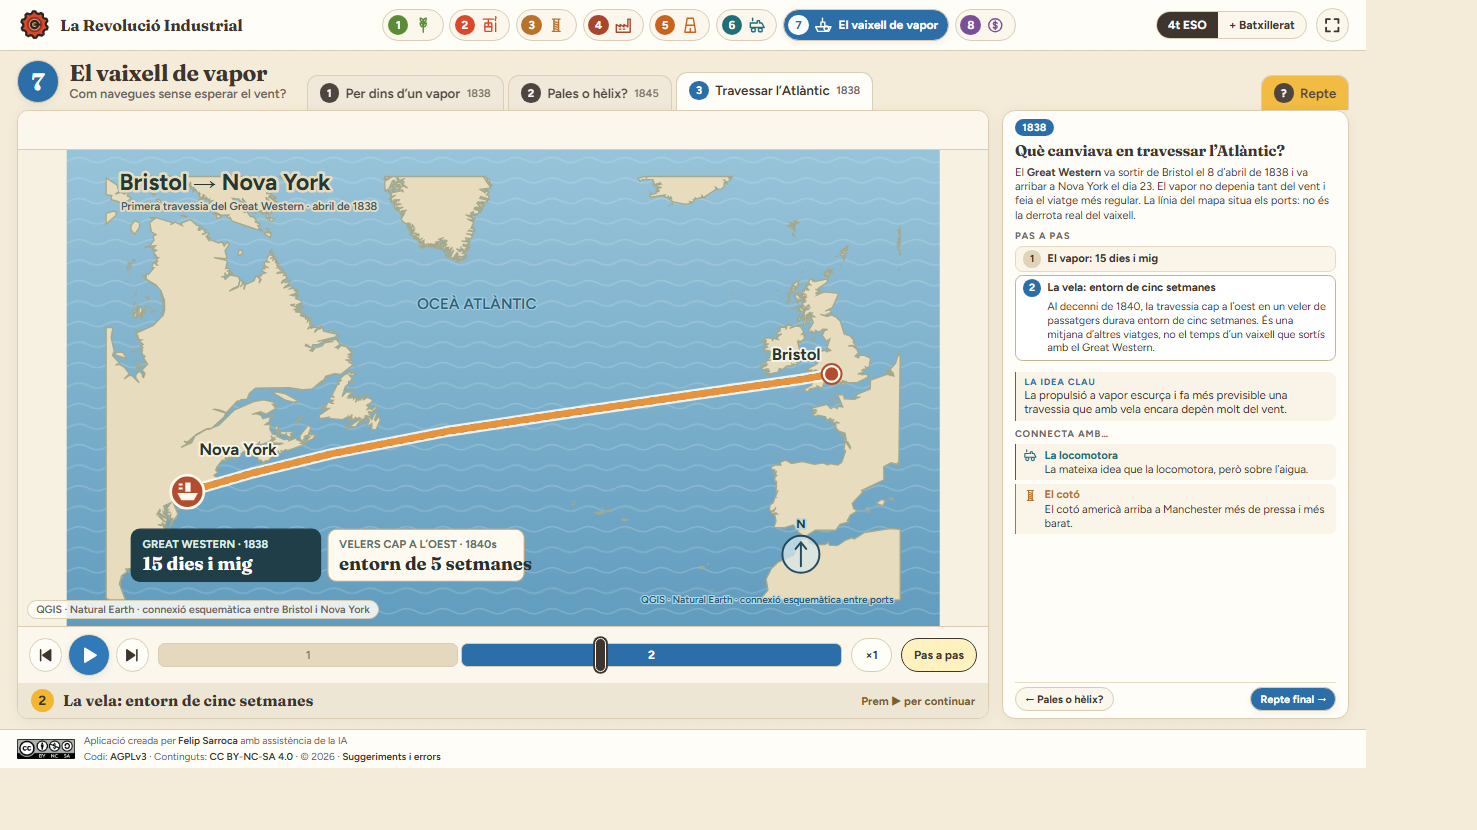
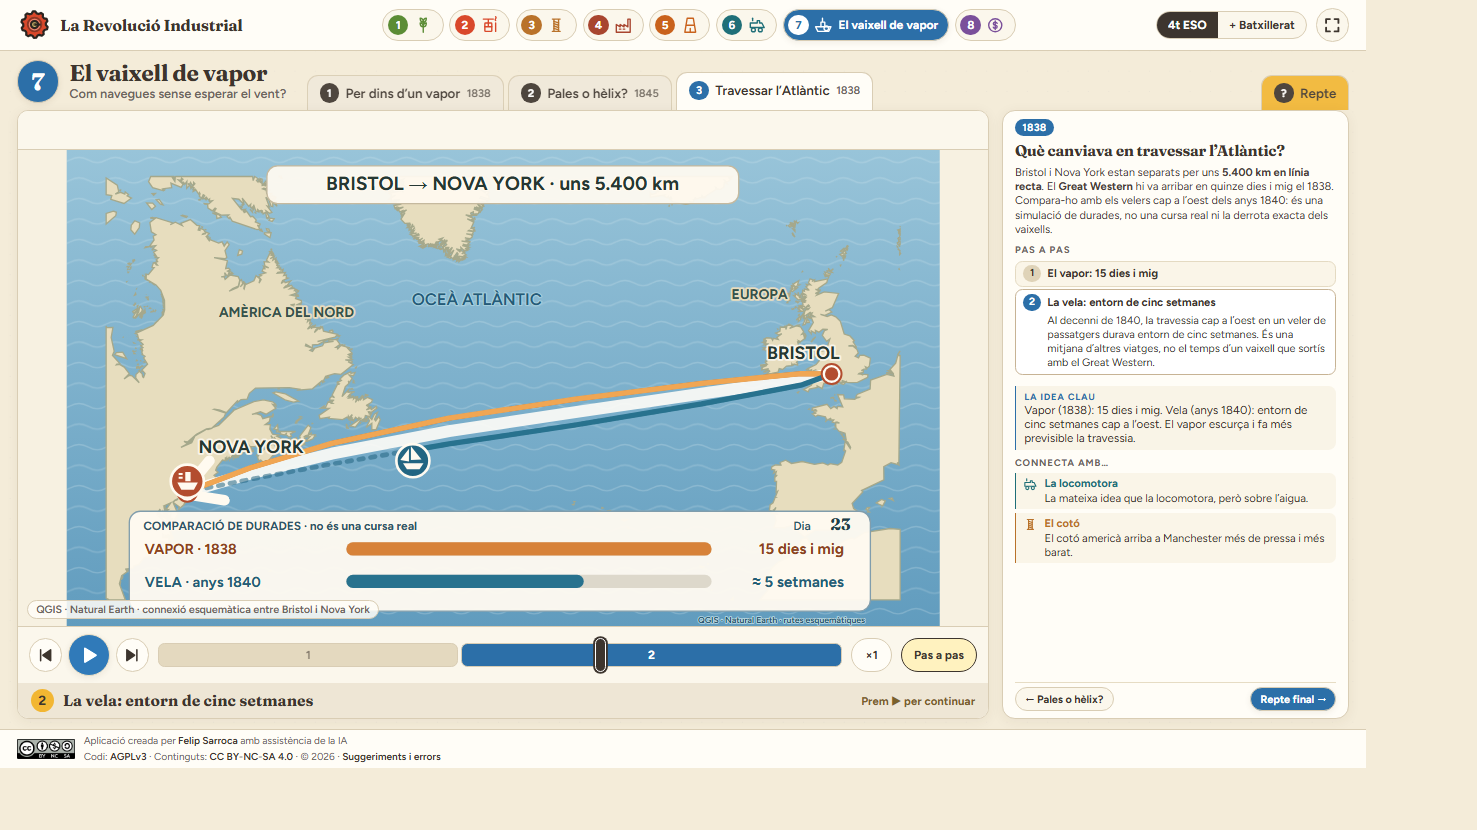
Aclareix el mapa atlàntic i mostra la comparació de durades

diff --git a/RevolucioIndustrial/js/mapes.js b/RevolucioIndustrial/js/mapes.js
@@ -53,38 +53,63 @@
 
   RI.mapaAtlantic = function () {
     const m = geo.sea, p = m.places, d = line(m.route);
+    const steam = line(m.route.map(([x, y], i) => [x, y - 20 * Math.sin(Math.PI * i / (m.route.length - 1))]));
+    const sail = line(m.route.map(([x, y], i) => [x, y + 20 * Math.sin(Math.PI * i / (m.route.length - 1))]));
     const s = `
       <title>Ruta del Great Western, de Bristol a Nova York, abril de 1838</title>
       <desc>Mapa de l'Atlàntic amb els ports de Bristol i Nova York. La línia és una connexió esquemàtica i no la derrota real del vaixell.</desc>
-      <defs><linearGradient id="mapa-ocea" x2="0" y2="1"><stop stop-color="#98c4d9"/><stop offset="1" stop-color="#619cbe"/></linearGradient><pattern id="mapa-ones" width="55" height="31" patternUnits="userSpaceOnUse"><path d="M0 15q14-8 28 0t27 0" fill="none" stroke="#eef8f8" stroke-opacity=".21" stroke-width="2"/></pattern></defs>
+      <defs><linearGradient id="mapa-ocea" x2="0" y2="1"><stop stop-color="#98c4d9"/><stop offset="1" stop-color="#619cbe"/></linearGradient><pattern id="mapa-ones" width="55" height="31" patternUnits="userSpaceOnUse"><path d="M0 15q14-8 28 0t27 0" fill="none" stroke="#eef8f8" stroke-opacity=".21" stroke-width="2"/></pattern><marker id="mapa-fletxa-oest" markerWidth="10" markerHeight="10" refX="7" refY="5" orient="auto"><path d="M1 1L8 5 1 9" fill="none" stroke="#fffaf0" stroke-width="2" stroke-linecap="round" stroke-linejoin="round"/></marker></defs>
       <rect x="-60" y="0" width="1320" height="720" fill="url(#mapa-ocea)"/>
       <rect x="-60" y="0" width="1320" height="720" fill="url(#mapa-ones)"/>
       <g transform="translate(0 40)"><path d="${m.land}" fill="#e7ddbe" fill-rule="evenodd" stroke="#a5a88b" stroke-width="2"/></g>
-      ${label(20, 61, 'Bristol → Nova York', { size: 35, halo: '#e7ddbe', outline: 7 })}
-      ${label(22, 91, 'Primera travessia del Great Western · abril de 1838', { size: 17, weight: 600, fill: '#365c72', halo: '#e7ddbe' })}
-      ${label(560, 240, 'OCEÀ ATLÀNTIC', { anchor: 'middle', size: 23, weight: 600, fill: '#2b6482', halo: '#a4cddd', outline: 3 })}
-      <path d="${d}" transform="translate(0 40)" fill="none" stroke="#fffdf7" stroke-width="17" stroke-linecap="round" stroke-linejoin="round" opacity=".86"/>
-      <path d="${d}" transform="translate(0 40)" fill="none" stroke="#356d8b" stroke-width="10" stroke-dasharray="5 11" stroke-linecap="round" stroke-linejoin="round"/>
-      <path id="mar-ruta" d="${d}" transform="translate(0 40)" fill="none" stroke="#e7933c" stroke-width="10" stroke-linecap="round" stroke-linejoin="round"/>
+      <rect x="243" y="24" width="713" height="57" rx="16" fill="#fffaf0" fill-opacity=".94" stroke="#c5b99e" stroke-width="2"/>
+      ${label(599, 61, 'BRISTOL → NOVA YORK · uns 5.400 km', { anchor: 'middle', size: 29, halo: '#fffaf0', outline: 3 })}
+      ${label(560, 235, 'OCEÀ ATLÀNTIC', { anchor: 'middle', size: 25, weight: 600, fill: '#245b79', halo: '#a4cddd', outline: 3 })}
+      ${label(170, 252, 'AMÈRICA DEL NORD', { size: 21, weight: 700, fill: '#36534c', halo: '#e7ddbe' })}
+      ${label(1030, 225, 'EUROPA', { anchor: 'end', size: 21, weight: 700, fill: '#36534c', halo: '#e7ddbe' })}
+      <path d="${d}" transform="translate(0 40)" fill="none" stroke="#fffdf7" stroke-width="18" stroke-linecap="round" stroke-linejoin="round" opacity=".9"/>
+      <path d="${steam}" transform="translate(0 40)" fill="none" stroke="#a34f25" stroke-width="7" stroke-linecap="round" stroke-linejoin="round"/>
+      <path d="${sail}" transform="translate(0 40)" fill="none" stroke="#226582" stroke-width="7" stroke-dasharray="7 11" stroke-linecap="round" stroke-linejoin="round" opacity=".55"/>
+      <path id="mar-ruta" d="${steam}" transform="translate(0 40)" fill="none" stroke="#f0a653" stroke-width="8" stroke-linecap="round" stroke-linejoin="round" marker-end="url(#mapa-fletxa-oest)"/>
+      <path id="mar-vela-ruta" d="${sail}" transform="translate(0 40)" fill="none" stroke="#28728e" stroke-width="8" stroke-linecap="round" stroke-linejoin="round"/>
       ${dot(p.Bristol[0], p.Bristol[1] + 40, '#b34d2f', 10)}
       ${dot(p['Nova York'][0], p['Nova York'][1] + 40, '#b34d2f', 10)}
-      ${label(p.Bristol[0] - 17, p.Bristol[1] + 19, 'Bristol', { anchor: 'end', size: 25 })}
-      ${label(p['Nova York'][0] + 18, p['Nova York'][1] - 16, 'Nova York', { size: 25 })}
-      <g id="mar-vaixell" transform="translate(${p.Bristol[0]} ${p.Bristol[1] + 40})"><circle r="25" fill="#b34d2f" stroke="#fffaf0" stroke-width="4"/><path d="M-15 2H16l-6 11H-9Z" fill="#fffaf0"/><path d="M-3 0v-14h8V0" fill="#fffaf0"/><path d="M-13-5h6M-13-11h6" stroke="#fffaf0" stroke-width="3"/></g>
-      ${badge(38, 573, 286, 'GREAT WESTERN · 1838', '15 dies i mig', true)}
-      ${badge(335, 573, 297, 'VELERS CAP A L’OEST · 1840s', 'entorn de 5 setmanes')}
-      <g transform="translate(1050 611)" fill="none" stroke="#234c63" stroke-width="3"><circle r="28" fill="#d7e6e7" fill-opacity=".75"/><path d="M0 18V-18m0 0-8 10m8-10 8 10" stroke-linecap="round" stroke-linejoin="round"/></g>
-      ${label(1050, 572, 'N', { anchor: 'middle', size: 18, weight: 700, halo: '#b7d4df' })}
-      ${label(1190, 685, 'QGIS · Natural Earth · connexió esquemàtica entre ports', { anchor: 'end', size: 15, weight: 600, fill: '#24546e', halo: '#bbd8e2', outline: 3 })}`;
+      ${label(p.Bristol[0] + 12, p.Bristol[1] + 17, 'BRISTOL', { anchor: 'end', size: 27 })}
+      ${label(p['Nova York'][0] + 17, p['Nova York'][1] - 19, 'NOVA YORK', { size: 27 })}
+      <g id="mar-vaixell" transform="translate(${p.Bristol[0]} ${p.Bristol[1] + 24})"><circle r="25" fill="#b34d2f" stroke="#fffaf0" stroke-width="4"/><path d="M-15 2H16l-6 11H-9Z" fill="#fffaf0"/><path d="M-3 0v-14h8V0" fill="#fffaf0"/><path d="M-13-5h6M-13-11h6" stroke="#fffaf0" stroke-width="3"/></g>
+      <g id="mar-veler" transform="translate(${p.Bristol[0]} ${p.Bristol[1] + 56})"><circle r="25" fill="#226582" stroke="#fffaf0" stroke-width="4"/><path d="M-15 4H16l-6 9H-9Z" fill="#fffaf0"/><path d="M-3-1v-21l16 20zM-6 1l-13-2L-6-18z" fill="#fffaf0"/></g>
+      <rect x="35" y="546" width="1120" height="151" rx="17" fill="#fffaf0" fill-opacity=".96" stroke="#809dac" stroke-width="2"/>
+      ${label(56, 574, 'COMPARACIÓ DE DURADES · no és una cursa real', { size: 18, weight: 700, fill: '#305669', halo: '#fffaf0', outline: 2 })}
+      ${label(1065, 574, 'Dia', { anchor: 'end', size: 18, weight: 600, fill: '#305669', halo: '#fffaf0', outline: 2 })}
+      <text id="mar-dia" x="1125" y="574" text-anchor="end" fill="#203e48" font-family="Fraunces,Georgia,serif" font-size="25" font-weight="700">0</text>
+      <rect x="363" y="593" width="552" height="20" rx="10" fill="#ddd8cb"/>
+      <rect id="mar-barra-vapor" x="363" y="593" width="0" height="20" rx="10" fill="#d78239"/>
+      <rect x="363" y="642" width="552" height="20" rx="10" fill="#ddd8cb"/>
+      <rect id="mar-barra-vela" x="363" y="642" width="0" height="20" rx="10" fill="#28728e"/>
+      ${label(58, 611, 'VAPOR · 1838', { size: 22, fill: '#8d431f', halo: '#fffaf0', outline: 2 })}
+      ${label(58, 660, 'VELA · anys 1840', { size: 22, fill: '#245e77', halo: '#fffaf0', outline: 2 })}
+      ${label(1115, 611, '15 dies i mig', { anchor: 'end', size: 23, fill: '#8d431f', halo: '#fffaf0', outline: 2 })}
+      ${label(1115, 660, '≈ 5 setmanes', { anchor: 'end', size: 23, fill: '#245e77', halo: '#fffaf0', outline: 2 })}
+      ${label(1147, 715, 'QGIS · Natural Earth · rutes esquemàtiques', { anchor: 'end', size: 13, weight: 600, fill: '#24546e', halo: '#bbd8e2', outline: 2 })}`;
     return RI.svg(s);
   };
 
   RI.animaMapaAtlantic = function ({ p, el, svg }) {
-    const route = el('mar-ruta');
-    const length = svg._mapLength || (svg._mapLength = route.getTotalLength());
-    const fraction = Math.max(0, Math.min(1, (p * 35) / 15.5));
-    route.style.strokeDasharray = `${(length * fraction).toFixed(1)} ${length.toFixed(1)}`;
-    const point = route.getPointAtLength(length * fraction);
-    el('mar-vaixell').setAttribute('transform', `translate(${point.x.toFixed(1)} ${(point.y + 40).toFixed(1)})`);
+    const steam = el('mar-ruta');
+    const sail = el('mar-vela-ruta');
+    const steamLength = svg._steamLength || (svg._steamLength = steam.getTotalLength());
+    const sailLength = svg._sailLength || (svg._sailLength = sail.getTotalLength());
+    const day = Math.max(0, Math.min(35, p * 35));
+    const steamFraction = Math.min(1, day / 15.5);
+    const sailFraction = day / 35;
+    steam.style.strokeDasharray = `${(steamLength * steamFraction).toFixed(1)} ${steamLength.toFixed(1)}`;
+    sail.style.strokeDasharray = `${(sailLength * sailFraction).toFixed(1)} ${sailLength.toFixed(1)}`;
+    const steamPoint = steam.getPointAtLength(steamLength * steamFraction);
+    const sailPoint = sail.getPointAtLength(sailLength * sailFraction);
+    el('mar-vaixell').setAttribute('transform', `translate(${steamPoint.x.toFixed(1)} ${(steamPoint.y + 24).toFixed(1)})`);
+    el('mar-veler').setAttribute('transform', `translate(${sailPoint.x.toFixed(1)} ${(sailPoint.y + 56).toFixed(1)})`);
+    el('mar-barra-vapor').setAttribute('width', (552 * steamFraction).toFixed(1));
+    el('mar-barra-vela').setAttribute('width', (552 * sailFraction).toFixed(1));
+    el('mar-dia').textContent = Math.round(day);
   };
 })();

diff --git a/RevolucioIndustrial/js/vaixell.js b/RevolucioIndustrial/js/vaixell.js
@@ -140,13 +140,13 @@
         id: 'atlantic', nom: 'Travessar l’Atlàntic', any: '1838', durada: 16,
         model: 'QGIS · Natural Earth · connexió esquemàtica entre Bristol i Nova York',
         pregunta: 'Què canviava en travessar l’Atlàntic?',
-        intro: 'El <b>Great Western</b> va sortir de Bristol el 8 d’abril de 1838 i va arribar a Nova York el dia 23. El vapor no depenia tant del vent i feia el viatge més regular. La línia del mapa situa els ports: no és la derrota real del vaixell.',
+        intro: 'Bristol i Nova York estan separats per uns <b>5.400 km en línia recta</b>. El <b>Great Western</b> hi va arribar en quinze dies i mig el 1838. Compara-ho amb els velers cap a l’oest dels anys 1840: és una simulació de durades, no una cursa real ni la derrota exacta dels vaixells.',
         svg: RI.mapaAtlantic, anima: RI.animaMapaAtlantic, llegenda: false,
         fases: [
           { fins: 0.44, nom: 'El vapor: 15 dies i mig', text: 'El primer viatge del Great Western, de Bristol a Nova York, dura aproximadament quinze dies i mig. L’arribada demostra que un gran vapor pot creuar l’oceà.' },
           { fins: 1, nom: 'La vela: entorn de cinc setmanes', text: 'Al decenni de 1840, la travessia cap a l’oest en un veler de passatgers durava entorn de cinc setmanes. És una mitjana d’altres viatges, no el temps d’un vaixell que sortís amb el Great Western.' }
         ],
-        clau: 'La propulsió a vapor escurça i fa més previsible una travessia que amb vela encara depèn molt del vent.',
+        clau: 'Vapor (1838): 15 dies i mig. Vela (anys 1840): entorn de cinc setmanes cap a l’oest. El vapor escurça i fa més previsible la travessia.',
         batx: { titol: 'Un viatge i una mitjana', text: 'Els quinze dies i mig corresponen al primer viatge d’un vaixell concret el 1838; les cinc setmanes resumeixen travessies de velers cap a l’oest durant els anys 1840. Què perdries si presentessis aquestes dades com una cursa entre dos vaixells?', font: 'https://www.rmg.co.uk/stories/ocean/sailing-ships-steam-power-how-industrial-revolution-changed-life-sea-forever', fontNom: 'Royal Museums Greenwich · Del veler al vapor' }
       }
     ],

diff --git a/RevolucioIndustrial/vaixell.html b/RevolucioIndustrial/vaixell.html
@@ -19,7 +19,7 @@
   <script src="js/materials.js?v=20261114-realisme1"></script>
   <script src="js/reals.js?v=20261114-explotades2"></script>
   <script src="assets/gis/mapes-geometria.js?v=20261114-qgis1"></script>
-  <script src="js/mapes.js?v=20261114-qgis1"></script>
-  <script src="js/vaixell.js?v=20261114-realisme1"></script>
+  <script src="js/mapes.js?v=20261114-qgis2"></script>
+  <script src="js/vaixell.js?v=20261114-qgis2"></script>
 </body>
 </html>

diff --git a/RevolucioIndustrial/assets/gis/verifica_mapes.py b/RevolucioIndustrial/assets/gis/verifica_mapes.py
@@ -15,7 +15,8 @@ with sync_playwright() as pw:
             page = browser.new_page(viewport={"width": width, "height": height})
             page.on("pageerror", lambda error: failures.append(str(error)))
             page.goto((ROOT / f"{chapter}.html").as_uri() + f"#{scene}")
-            page.wait_for_selector("#tela svg path[id$='-ruta']")
+            route_id = "#rail-ruta" if chapter == "tren" else "#mar-ruta"
+            page.wait_for_selector(f"#tela svg {route_id}")
             if page.locator("#b-play").get_attribute("aria-pressed") == "true":
                 page.locator("#b-play").click()
             page.locator("#lliscador").evaluate("el => {el.value = 650; el.dispatchEvent(new Event('input'));}")
@@ -27,6 +28,21 @@ with sync_playwright() as pw:
                 title: document.querySelector('#tela svg title')?.textContent
             })""")
             assert status["route"] > 500 and status["marker"] and status["title"] and not status["overflow"], (chapter, width, status)
+            if chapter == "vaixell":
+                comparison = page.evaluate("""() => {
+                    const svg = document.querySelector('#tela svg');
+                    const out = [...svg.querySelectorAll('text')].filter(el => {
+                        const b = el.getBBox();
+                        return b.x < -60 || b.y < 0 || b.x + b.width > 1260 || b.y + b.height > 720;
+                    }).map(el => el.textContent);
+                    return {
+                        out,
+                        steam: +document.querySelector('#mar-barra-vapor').getAttribute('width'),
+                        sail: +document.querySelector('#mar-barra-vela').getAttribute('width'),
+                        ships: !!document.querySelector('#mar-vaixell') && !!document.querySelector('#mar-veler')
+                    };
+                }""")
+                assert not comparison["out"] and comparison["steam"] > comparison["sail"] and comparison["ships"], (width, comparison)
             if width in (1366, 390):
                 path = SHOTS / f"{chapter}-mapa-{width}.png"
                 page.screenshot(path=str(path), full_page=True)

diff --git a/RevolucioIndustrial/assets/gis/README.md b/RevolucioIndustrial/assets/gis/README.md
@@ -6,13 +6,13 @@ Els mapes de `tren.html#mapa` i `vaixell.html#atlantic` combinen geometria gener
 & 'C:\Program Files\QGIS 3.44.15\bin\python-qgis-ltr.bat' assets\gis\genera_mapes.py
 ```
 
-La sortida és estàtica i funciona al navegador sense instal·lar QGIS a l'ordinador de l'alumne. QGIS s'utilitza per transformar les coordenades a **British National Grid (EPSG:27700)** al mapa ferroviari i **Web Mercator (EPSG:3857)** a l'Atlàntic, retallar i simplificar les costes i calcular l'escala gràfica.
+La sortida és estàtica i funciona al navegador sense instal·lar QGIS a l'ordinador de l'alumne. QGIS s'utilitza per transformar les coordenades a **British National Grid (EPSG:27700)** al mapa ferroviari i **Web Mercator (EPSG:3857)** a l'Atlàntic, retallar i simplificar les costes i calcular l'escala gràfica del mapa ferroviari.
 
 ## Què és històric i què és esquemàtic
 
 - **Ferrocarril, 1830:** Crown Street/Edge Hill (Liverpool), Rainhill, Parkside, Chat Moss i Liverpool Road (Manchester) són punts històrics. La línia que els uneix és una **reconstrucció aproximada**, no l'aixecament del traçat exacte ni un mapa de les estacions de 1830. La distància presentada com «uns 50 km» correspon a l'ordre de magnitud de les 31 milles indicades pel Science and Industry Museum. La durada d'1 h i 30 min correspon al servei directe de primera classe, no a tots els trens.
-- **Mar, abril de 1838:** el *Great Western* surt de Bristol el 8 d'abril i arriba a Nova York el dia 23. El Royal Museums Greenwich dona una durada de **15 dies i mig**. La línia entre ports és una **connexió geogràfica esquemàtica**, no la derrota real; no se'n disposa aquí d'un diari de navegació georeferenciat.
-- **Comparació amb la vela:** l'estimació «entorn de cinc setmanes» resumeix la durada de viatges de passatgers cap a l'oest en la dècada de 1840, segons una recerca de dades històriques. **No** és el temps d'un veler que sortís de Bristol al mateix moment que el *Great Western*. Per això el mapa només anima el vapor i situa l'altra dada en una fitxa.
+- **Mar, abril de 1838:** el *Great Western* surt de Bristol el 8 d'abril i arriba a Nova York el dia 23. El Royal Museums Greenwich dona una durada de **15 dies i mig**. La línia entre ports és una **connexió geogràfica esquemàtica**, no la derrota real; no se'n disposa aquí d'un diari de navegació georeferenciat. La distància indicada, **uns 5.400 km en línia recta**, és la distància aproximada entre les coordenades dels ports, no la distància navegada.
+- **Comparació amb la vela:** l'estimació «entorn de cinc setmanes» resumeix la durada de viatges de passatgers cap a l'oest en la dècada de 1840, segons una recerca de dades històriques. **No** és el temps d'un veler que sortís de Bristol al mateix moment que el *Great Western*. Els dos vaixells animats i les dues barres de temps són una comparació orientativa de durades, no una cursa real.
 - Les costes de Natural Earth representen geografia actual generalitzada, no la línia de costa documentada l'any 1830 o 1838.
 
 ## Fonts

diff --git a/RevolucioIndustrial/VISIO-I-GUIO.md b/RevolucioIndustrial/VISIO-I-GUIO.md
@@ -235,3 +235,5 @@ La prova local a `prototips/watt-pilot/` incorpora el model de Blender més deta
 ## 19. Mapes de rutes amb QGIS (14-11-2026)
 
 Felip ha demanat instal·lar QGIS i utilitzar-lo per millorar els mapes ferroviaris i marítims de l'app. S'ha afegit una tercera escena al capítol de la locomotora, amb el mapa animat Liverpool–Manchester de 1830 (Crown Street, Rainhill, Parkside, Chat Moss i Liverpool Road). L'escena atlàntica del *Great Western* s'ha refet com a mapa geogràfic Bristol–Nova York. Les costes i les coordenades s'han projectat i simplificat amb QGIS 3.44.15 LTR; la geometria resultant és SVG estàtic, de manera que l'alumnat no necessita instal·lar QGIS. Les rutes dibuixades són esquemàtiques: no es presenten com la posició exacta de la via ni la derrota real del vaixell. La comparació del *Great Western* (15 dies i mig el 1838) amb els velers (entorn de cinc setmanes cap a l'oest als anys 1840) distingeix un viatge documentat d'una mitjana d'un altre període. Fonts, limitacions i regeneració a `assets/gis/README.md`.
+
+Després de la revisió de Felip, el mapa marítim destaca la separació directa aproximada de 5.400 km, mostra dos vaixells amb ritmes diferents i dues barres de progrés, i explica que la comparació no és una cursa real.
